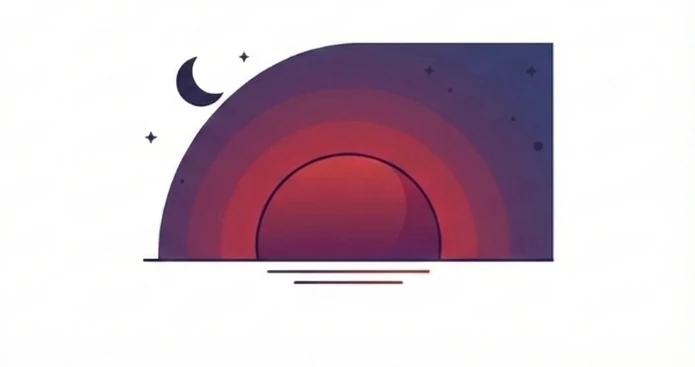
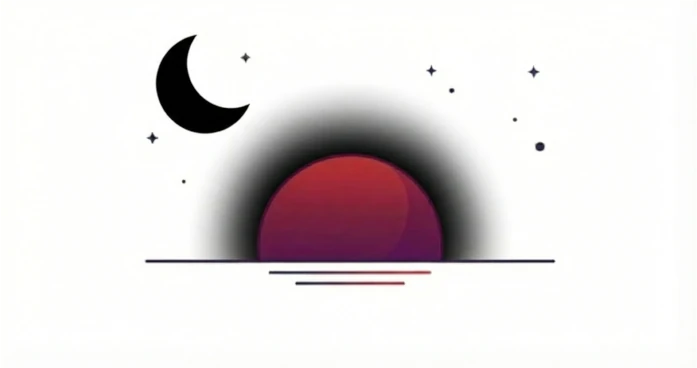
console.log cleaning / soir image update / small bugfix

Changed region(s): [[0.2115, 0.0899, 0.8158, 0.7793], [0.3324, 0.1499, 0.3626, 0.1798], [0.2115, 0.3597, 0.2417, 0.3896]]

diff --git a/src/components/RepasSection.tsx b/src/components/RepasSection.tsx
@@ -95,7 +95,7 @@ const RepasSection = ({ title, dayTimeCol }: RepasSectionProps) => {
       ? "/midi.webp"
       : dayTimeCol === "goûter"
       ? "/aprem.webp"
-      : "/soir3.webp";
+      : "/soir.webp";
 
   const splitText = (selectedSuiviDay?.[dayTimeCol] ?? "")
     .toString()
@@ -137,6 +137,7 @@ const RepasSection = ({ title, dayTimeCol }: RepasSectionProps) => {
         >
           {donutGroups[donutGroupIndex]?.map((nutrient) => (
             <AverageBar
+              key={nutrient.name}
               columnName={nutrient.name}
               calcColumnTotalPeriod={calcColumnTotalPeriod}
               calcColumnAveragePeriod={calcColumnAveragePeriod}

diff --git a/src/utils/calcColumnTotal.ts b/src/utils/calcColumnTotal.ts
@@ -18,11 +18,12 @@ export const calcColumnTotal =
             (dbEntry) =>
               dbEntry.aliment?.toString().toLowerCase() === item.toLowerCase()
           );
-          const itemValue =
-            dbItem !== undefined
-              ? parseFloat(dbItem[columnName]?.toString() ?? "0")
-              : 0;
-          return total + itemValue;
+
+          const itemValue = dbItem !== undefined ? dbItem[columnName] ?? 0 : 0;
+
+          const itemValueFloat = parseFloat(itemValue.toString());
+
+          return total + (isNaN(itemValueFloat) ? 0 : itemValueFloat);
         }, 0);
       })
       .reduce((acc, val) => acc + val, 0);

diff --git a/src/hooks/useSuiviRegime.tsx b/src/hooks/useSuiviRegime.tsx
@@ -35,7 +35,6 @@ export const useSuiviRegime = () => {
   const refreshAllData = async (props?: { callGemini: boolean }) => {
     if (isLoading) return;
     setIsLoading(true);
-    console.log("*** hook useEffect");
 
     try {
       if (props?.callGemini) await fetchRefresh({ setInvalidPassword });

diff --git a/src/App.tsx b/src/App.tsx
@@ -26,9 +26,6 @@ function App() {
 
   useEffect(() => {
     if (password && password.trim() !== "" && !isLoading) {
-      console.log("*** app useEffect");
-      console.log({ password, isLoading });
-
       try {
         refreshAllData();
         setInvalidPassword(false);

diff --git a/src/components/HeaderDate.module.scss b/src/components/HeaderDate.module.scss
@@ -22,7 +22,7 @@
 }
 
 .headerDate > span {
-  font-size: 1.55rem;
+  font-size: 1.45rem;
   font-family: "LilitaOne";
   background-color: #4242428a;
   width: 100%;

diff --git a/src/components/NavBar.module.scss b/src/components/NavBar.module.scss
@@ -19,6 +19,7 @@
     margin: 0;
     text-shadow: 0 2px 4px rgba(0, 0, 0, 0.2);
     cursor: pointer;
+    width: 40px;
   }
 }
 
